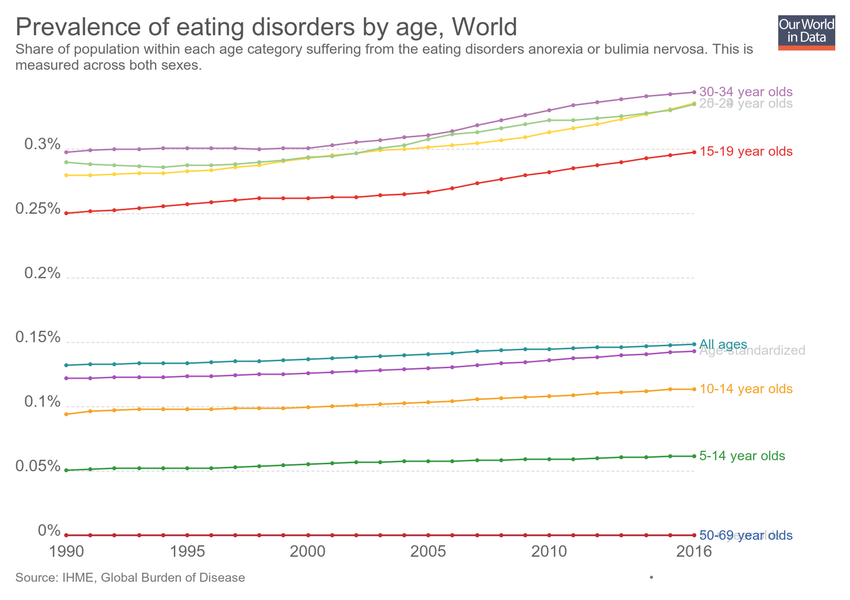
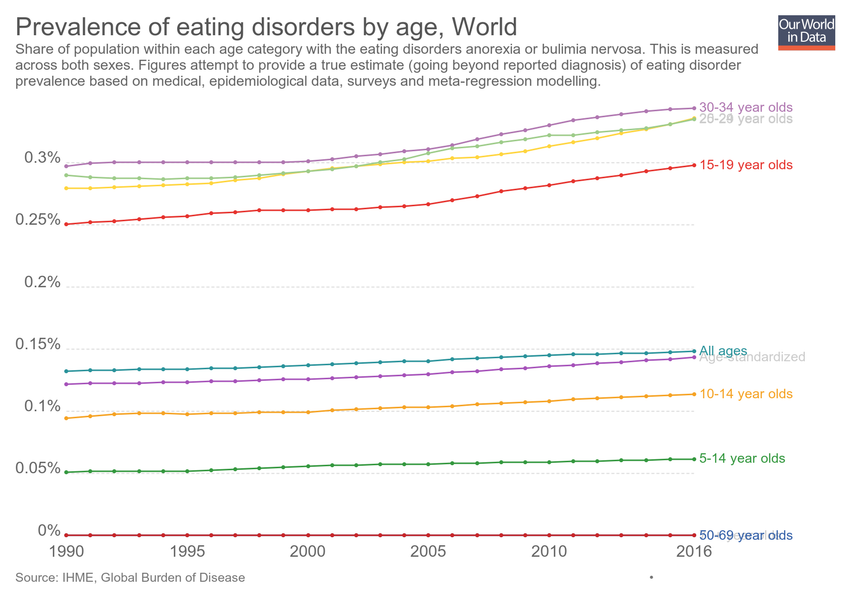
Updating chart prevalence-of-eating-disorders-by-age

diff --git a/grapher/prevalence-of-eating-disorders-by-age.html b/grapher/prevalence-of-eating-disorders-by-age.html
@@ -1,4 +1,4 @@
-<!doctype html><html><head><meta name="viewport" content="width=device-width, initial-scale=1" /><title>Prevalence of eating disorders by age - Our World in Data</title><meta name="description" content="Share of population within each age category suffering from the eating disorders anorexia or bulimia nervosa. This is measured across both sexes." /><link rel="canonical" href="https://ourworldindata.org/grapher/prevalence-of-eating-disorders-by-age" /><meta property="fb:app_id" content="1149943818390250" /><meta property="og:url" content="https://ourworldindata.org/grapher/prevalence-of-eating-disorders-by-age" /><meta property="og:title" content="Prevalence of eating disorders by age" /><meta property="og:description" content="Share of population within each age category suffering from the eating disorders anorexia or bulimia nervosa. This is measured across both sexes." /><meta property="og:image" content="https://ourworldindata.org/grapher/exports/prevalence-of-eating-disorders-by-age.png?v=2" /><meta property="og:image:width" content="850" /><meta property="og:image:height" content="600" /><meta property="og:site_name" content="Our World in Data" /><meta name="twitter:card" content="summary_large_image" /><meta name="twitter:site" content="@OurWorldInData" /><meta name="twitter:creator" content="@OurWorldInData" /><meta name="twitter:title" content="Prevalence of eating disorders by age" /><meta name="twitter:description" content="Share of population within each age category suffering from the eating disorders anorexia or bulimia nervosa. This is measured across both sexes." /><meta name="twitter:image" content="https://ourworldindata.org/grapher/exports/prevalence-of-eating-disorders-by-age.png?v=2" /><style>
+<!doctype html><html><head><meta name="viewport" content="width=device-width, initial-scale=1" /><title>Prevalence of eating disorders by age - Our World in Data</title><meta name="description" content="Share of population within each age category with the eating disorders anorexia or bulimia nervosa. This is measured across both sexes. Figures attempt to provide a true estimate (going beyond reported diagnosis) of eating disorder prevalence based on medical, epidemiological data, surveys and meta-regression modelling." /><link rel="canonical" href="https://ourworldindata.org/grapher/prevalence-of-eating-disorders-by-age" /><meta property="fb:app_id" content="1149943818390250" /><meta property="og:url" content="https://ourworldindata.org/grapher/prevalence-of-eating-disorders-by-age" /><meta property="og:title" content="Prevalence of eating disorders by age" /><meta property="og:description" content="Share of population within each age category with the eating disorders anorexia or bulimia nervosa. This is measured across both sexes. Figures attempt to provide a true estimate (going beyond reported diagnosis) of eating disorder prevalence based on medical, epidemiological data, surveys and meta-regression modelling." /><meta property="og:image" content="https://ourworldindata.org/grapher/exports/prevalence-of-eating-disorders-by-age.png?v=3" /><meta property="og:image:width" content="850" /><meta property="og:image:height" content="600" /><meta property="og:site_name" content="Our World in Data" /><meta name="twitter:card" content="summary_large_image" /><meta name="twitter:site" content="@OurWorldInData" /><meta name="twitter:creator" content="@OurWorldInData" /><meta name="twitter:title" content="Prevalence of eating disorders by age" /><meta name="twitter:description" content="Share of population within each age category with the eating disorders anorexia or bulimia nervosa. This is measured across both sexes. Figures attempt to provide a true estimate (going beyond reported diagnosis) of eating disorder prevalence based on medical, epidemiological data, surveys and meta-regression modelling." /><meta name="twitter:image" content="https://ourworldindata.org/grapher/exports/prevalence-of-eating-disorders-by-age.png?v=3" /><style>
         html, body {
             height: 100%;
             margin: 0;
@@ -20,8 +20,8 @@
         }
     </style><noscript><style>
                     figure { display: none !important; }
-                </style></noscript><link rel="stylesheet" href="https://ourworldindata.org/grapher/assets/commons.bundle.ac09ff8f098f0c7be836.css" /><link rel="preload" href="/grapher/data/variables/84758+84740+84785+84776+84767+84794+84812+84827+84821+84749.json?v=2" as="fetch" crossorigin /></head><body class="singleChart"><figure data-grapher-src="/grapher/prevalence-of-eating-disorders-by-age"></figure><noscript id="fallback"><img src="/grapher/exports/prevalence-of-eating-disorders-by-age.svg" /><p>Interactive visualization requires JavaScript</p></noscript><script src="https://cdn.polyfill.io/v2/polyfill.min.js?features=es6,fetch"></script><script src="https://ourworldindata.org/grapher/assets/commons.bundle.ac09ff8f098f0c7be836.js"></script><script src="https://ourworldindata.org/grapher/assets/charts.bundle.dcf65b68eddaba4c6a58.js"></script><script>
-        var jsonConfig = {"id":2168,"map":{"projection":"World","colorSchemeLabels":[],"colorSchemeValues":[],"colorSchemeMinValue":0,"customNumericColors":[],"customCategoryColors":{},"customCategoryLabels":{},"customHiddenCategories":{}},"tab":"chart","slug":"prevalence-of-eating-disorders-by-age","type":"LineChart","title":"Prevalence of eating disorders by age","xAxis":{"scaleType":"linear"},"yAxis":{"min":0,"scaleType":"linear"},"version":2,"subtitle":"Share of population within each age category suffering from the eating disorders anorexia or bulimia nervosa. This is measured across both sexes.","hasMapTab":false,"stackMode":"absolute","dimensions":[{"display":{"name":"20-24 year olds","unit":"%"},"property":"y","variableId":84758},{"display":{"name":"10-14 year olds","unit":"%"},"property":"y","variableId":84740},{"display":{"name":"All ages","unit":"%"},"property":"y","variableId":84785},{"display":{"name":"30-34 year olds","unit":"%"},"property":"y","variableId":84776},{"display":{"name":"25-29 year olds","unit":"%"},"property":"y","variableId":84767},{"display":{"name":"5-14 year olds","unit":"%"},"property":"y","variableId":84794},{"display":{"name":"50-69 year olds","unit":"%"},"property":"y","variableId":84812},{"display":{"name":"Age-standardized","unit":"%"},"property":"y","variableId":84827},{"display":{"name":"70+ year olds","unit":"%"},"property":"y","variableId":84821},{"display":{"name":"15-19 year olds","unit":"%"},"property":"y","variableId":84749}],"sourceDesc":"IHME, Global Burden of Disease","hasChartTab":true,"isPublished":true,"selectedData":[{"index":0,"entityId":355},{"index":1,"entityId":355},{"index":2,"entityId":355},{"index":3,"entityId":355},{"index":4,"entityId":355},{"index":5,"entityId":355},{"index":6,"entityId":355},{"index":7,"entityId":355},{"index":8,"entityId":355},{"index":9,"entityId":355}],"addCountryMode":"change-country"};
+                </style></noscript><link rel="stylesheet" href="https://ourworldindata.org/grapher/assets/commons.bundle.ac09ff8f098f0c7be836.css" /><link rel="preload" href="/grapher/data/variables/84758+84740+84785+84776+84767+84794+84812+84827+84821+84749.json?v=3" as="fetch" crossorigin /></head><body class="singleChart"><figure data-grapher-src="/grapher/prevalence-of-eating-disorders-by-age"></figure><noscript id="fallback"><img src="/grapher/exports/prevalence-of-eating-disorders-by-age.svg" /><p>Interactive visualization requires JavaScript</p></noscript><script src="https://cdn.polyfill.io/v2/polyfill.min.js?features=es6,fetch"></script><script src="https://ourworldindata.org/grapher/assets/commons.bundle.ac09ff8f098f0c7be836.js"></script><script src="https://ourworldindata.org/grapher/assets/charts.bundle.dcf65b68eddaba4c6a58.js"></script><script>
+        var jsonConfig = {"id":2168,"map":{"projection":"World","colorSchemeLabels":[],"colorSchemeValues":[],"colorSchemeMinValue":0,"customNumericColors":[],"customCategoryColors":{},"customCategoryLabels":{},"customHiddenCategories":{}},"tab":"chart","slug":"prevalence-of-eating-disorders-by-age","type":"LineChart","title":"Prevalence of eating disorders by age","xAxis":{"scaleType":"linear"},"yAxis":{"min":0,"scaleType":"linear"},"version":3,"subtitle":"Share of population within each age category with the eating disorders anorexia or bulimia nervosa. This is measured across both sexes. Figures attempt to provide a true estimate (going beyond reported diagnosis) of eating disorder prevalence based on medical, epidemiological data, surveys and meta-regression modelling.","hasMapTab":false,"stackMode":"absolute","dimensions":[{"display":{"name":"20-24 year olds","unit":"%"},"property":"y","variableId":84758},{"display":{"name":"10-14 year olds","unit":"%"},"property":"y","variableId":84740},{"display":{"name":"All ages","unit":"%"},"property":"y","variableId":84785},{"display":{"name":"30-34 year olds","unit":"%"},"property":"y","variableId":84776},{"display":{"name":"25-29 year olds","unit":"%"},"property":"y","variableId":84767},{"display":{"name":"5-14 year olds","unit":"%"},"property":"y","variableId":84794},{"display":{"name":"50-69 year olds","unit":"%"},"property":"y","variableId":84812},{"display":{"name":"Age-standardized","unit":"%"},"property":"y","variableId":84827},{"display":{"name":"70+ year olds","unit":"%"},"property":"y","variableId":84821},{"display":{"name":"15-19 year olds","unit":"%"},"property":"y","variableId":84749}],"sourceDesc":"IHME, Global Burden of Disease","hasChartTab":true,"isPublished":true,"selectedData":[{"index":0,"entityId":355},{"index":1,"entityId":355},{"index":2,"entityId":355},{"index":3,"entityId":355},{"index":4,"entityId":355},{"index":5,"entityId":355},{"index":6,"entityId":355},{"index":7,"entityId":355},{"index":8,"entityId":355},{"index":9,"entityId":355}],"addCountryMode":"change-country"};
         var figure = document.getElementsByTagName("figure")[0];
         try {
             window.App = {};

diff --git a/grapher/prevalence-of-eating-disorders-in-males-vs-females.html b/grapher/prevalence-of-eating-disorders-in-males-vs-females.html
@@ -1,4 +1,4 @@
-<!doctype html><html><head><meta name="viewport" content="width=device-width, initial-scale=1" /><title>Prevalence of eating disorders in males vs. females - Our World in Data</title><meta name="description" content="Share of population suffering from an eating disorder, in males versus females. This is given as the age-standardized share which assumes a constant age structure to compare between sexes, countries and with time. Data includes only eating disorders clinically defined as anorexia or bulimia nervosa." /><link rel="canonical" href="https://ourworldindata.org/grapher/prevalence-of-eating-disorders-in-males-vs-females" /><meta property="fb:app_id" content="1149943818390250" /><meta property="og:url" content="https://ourworldindata.org/grapher/prevalence-of-eating-disorders-in-males-vs-females" /><meta property="og:title" content="Prevalence of eating disorders in males vs. females" /><meta property="og:description" content="Share of population suffering from an eating disorder, in males versus females. This is given as the age-standardized share which assumes a constant age structure to compare between sexes, countries and with time. Data includes only eating disorders clinically defined as anorexia or bulimia nervosa." /><meta property="og:image" content="https://ourworldindata.org/grapher/exports/prevalence-of-eating-disorders-in-males-vs-females.png?v=1" /><meta property="og:image:width" content="850" /><meta property="og:image:height" content="600" /><meta property="og:site_name" content="Our World in Data" /><meta name="twitter:card" content="summary_large_image" /><meta name="twitter:site" content="@OurWorldInData" /><meta name="twitter:creator" content="@OurWorldInData" /><meta name="twitter:title" content="Prevalence of eating disorders in males vs. females" /><meta name="twitter:description" content="Share of population suffering from an eating disorder, in males versus females. This is given as the age-standardized share which assumes a constant age structure to compare between sexes, countries and with time. Data includes only eating disorders clinically defined as anorexia or bulimia nervosa." /><meta name="twitter:image" content="https://ourworldindata.org/grapher/exports/prevalence-of-eating-disorders-in-males-vs-females.png?v=1" /><style>
+<!doctype html><html><head><meta name="viewport" content="width=device-width, initial-scale=1" /><title>Prevalence of eating disorders in males vs. females - Our World in Data</title><meta name="description" content="Share of population suffering from an eating disorder, in males versus females. Data includes only eating disorders clinically defined as anorexia or bulimia nervosa. Figures attempt to provide a true estimate (going beyond reported diagnosis) of eating disorder prevalence based on medical, epidemiological data, surveys and meta-regression modelling." /><link rel="canonical" href="https://ourworldindata.org/grapher/prevalence-of-eating-disorders-in-males-vs-females" /><meta property="fb:app_id" content="1149943818390250" /><meta property="og:url" content="https://ourworldindata.org/grapher/prevalence-of-eating-disorders-in-males-vs-females" /><meta property="og:title" content="Prevalence of eating disorders in males vs. females" /><meta property="og:description" content="Share of population suffering from an eating disorder, in males versus females. Data includes only eating disorders clinically defined as anorexia or bulimia nervosa. Figures attempt to provide a true estimate (going beyond reported diagnosis) of eating disorder prevalence based on medical, epidemiological data, surveys and meta-regression modelling." /><meta property="og:image" content="https://ourworldindata.org/grapher/exports/prevalence-of-eating-disorders-in-males-vs-females.png?v=2" /><meta property="og:image:width" content="850" /><meta property="og:image:height" content="600" /><meta property="og:site_name" content="Our World in Data" /><meta name="twitter:card" content="summary_large_image" /><meta name="twitter:site" content="@OurWorldInData" /><meta name="twitter:creator" content="@OurWorldInData" /><meta name="twitter:title" content="Prevalence of eating disorders in males vs. females" /><meta name="twitter:description" content="Share of population suffering from an eating disorder, in males versus females. Data includes only eating disorders clinically defined as anorexia or bulimia nervosa. Figures attempt to provide a true estimate (going beyond reported diagnosis) of eating disorder prevalence based on medical, epidemiological data, surveys and meta-regression modelling." /><meta name="twitter:image" content="https://ourworldindata.org/grapher/exports/prevalence-of-eating-disorders-in-males-vs-females.png?v=2" /><style>
         html, body {
             height: 100%;
             margin: 0;
@@ -20,8 +20,8 @@
         }
     </style><noscript><style>
                     figure { display: none !important; }
-                </style></noscript><link rel="stylesheet" href="https://ourworldindata.org/grapher/assets/commons.bundle.ac09ff8f098f0c7be836.css" /><link rel="preload" href="/grapher/data/variables/84825+84826+72+123.json?v=1" as="fetch" crossorigin /></head><body class="singleChart"><figure data-grapher-src="/grapher/prevalence-of-eating-disorders-in-males-vs-females"></figure><noscript id="fallback"><img src="/grapher/exports/prevalence-of-eating-disorders-in-males-vs-females.svg" /><p>Interactive visualization requires JavaScript</p></noscript><script src="https://cdn.polyfill.io/v2/polyfill.min.js?features=es6,fetch"></script><script src="https://ourworldindata.org/grapher/assets/commons.bundle.ac09ff8f098f0c7be836.js"></script><script src="https://ourworldindata.org/grapher/assets/charts.bundle.dcf65b68eddaba4c6a58.js"></script><script>
-        var jsonConfig = {"map":{"projection":"World","colorSchemeLabels":[],"colorSchemeValues":[],"defaultProjection":"World","colorSchemeMinValue":0,"customNumericColors":[],"customCategoryColors":{},"customCategoryLabels":{},"customHiddenCategories":{}},"tab":"chart","slug":"prevalence-of-eating-disorders-in-males-vs-females","type":"ScatterPlot","title":"Prevalence of eating disorders in males vs. females","xAxis":{"max":1,"min":0,"scaleType":"linear"},"yAxis":{"max":1,"min":0,"scaleType":"linear"},"maxTime":2016,"minTime":2016,"version":1,"subtitle":"Share of population suffering from an eating disorder, in males versus females. This is given as the age-standardized share which assumes a constant age structure to compare between sexes, countries and with time. Data includes only eating disorders clinically defined as anorexia or bulimia nervosa.","hasMapTab":false,"stackMode":"absolute","dimensions":[{"display":{"name":"Share of males","unit":"%"},"property":"y","variableId":84825},{"display":{"name":"Share of females","unit":"%"},"property":"x","variableId":84826},{"display":{},"property":"size","variableId":72},{"display":{},"property":"color","variableId":123}],"isAutoSlug":true,"sourceDesc":"IHME, Global Burden of Disease","hasChartTab":true,"isPublished":true,"selectedData":[],"addCountryMode":"add-country","comparisonLine":{},"id":2167};
+                </style></noscript><link rel="stylesheet" href="https://ourworldindata.org/grapher/assets/commons.bundle.ac09ff8f098f0c7be836.css" /><link rel="preload" href="/grapher/data/variables/84825+84826+72+123.json?v=2" as="fetch" crossorigin /></head><body class="singleChart"><figure data-grapher-src="/grapher/prevalence-of-eating-disorders-in-males-vs-females"></figure><noscript id="fallback"><img src="/grapher/exports/prevalence-of-eating-disorders-in-males-vs-females.svg" /><p>Interactive visualization requires JavaScript</p></noscript><script src="https://cdn.polyfill.io/v2/polyfill.min.js?features=es6,fetch"></script><script src="https://ourworldindata.org/grapher/assets/commons.bundle.ac09ff8f098f0c7be836.js"></script><script src="https://ourworldindata.org/grapher/assets/charts.bundle.dcf65b68eddaba4c6a58.js"></script><script>
+        var jsonConfig = {"id":2167,"map":{"projection":"World","colorSchemeLabels":[],"colorSchemeValues":[],"colorSchemeMinValue":0,"customNumericColors":[],"customCategoryColors":{},"customCategoryLabels":{},"customHiddenCategories":{}},"tab":"chart","slug":"prevalence-of-eating-disorders-in-males-vs-females","type":"ScatterPlot","title":"Prevalence of eating disorders in males vs. females","xAxis":{"max":1,"min":0,"scaleType":"linear"},"yAxis":{"max":1,"min":0,"scaleType":"linear"},"maxTime":2016,"minTime":2016,"version":2,"subtitle":"Share of population suffering from an eating disorder, in males versus females. Data includes only eating disorders clinically defined as anorexia or bulimia nervosa. Figures attempt to provide a true estimate (going beyond reported diagnosis) of eating disorder prevalence based on medical, epidemiological data, surveys and meta-regression modelling.","hasMapTab":false,"stackMode":"absolute","dimensions":[{"display":{"name":"Share of males","unit":"%"},"property":"y","variableId":84825},{"display":{"name":"Share of females","unit":"%"},"property":"x","variableId":84826},{"display":{},"property":"size","variableId":72},{"display":{},"property":"color","variableId":123}],"sourceDesc":"IHME, Global Burden of Disease","hasChartTab":true,"isPublished":true,"selectedData":[],"addCountryMode":"add-country","comparisonLine":{}};
         var figure = document.getElementsByTagName("figure")[0];
         try {
             window.App = {};

diff --git a/grapher/rate-of-internationally-observed-elections.html b/grapher/rate-of-internationally-observed-elections.html
@@ -1,4 +1,4 @@
-<!doctype html><html><head><meta name="viewport" content="width=device-width, initial-scale=1" /><title>Internationally observed elections (%) - Our World in Data</title><meta name="description" content="Percentage of internationally observed elections and whether they were criticized by international observers. Figures cover 1,754 election events in 157 independent states, excluding those with population less than 250,000." /><link rel="canonical" href="https://ourworldindata.org/grapher/rate-of-internationally-observed-elections" /><meta property="fb:app_id" content="1149943818390250" /><meta property="og:url" content="https://ourworldindata.org/grapher/rate-of-internationally-observed-elections" /><meta property="og:title" content="Internationally observed elections (%)" /><meta property="og:description" content="Percentage of internationally observed elections and whether they were criticized by international observers. Figures cover 1,754 election events in 157 independent states, excluding those with population less than 250,000." /><meta property="og:image" content="https://ourworldindata.org/grapher/exports/rate-of-internationally-observed-elections.png?v=16" /><meta property="og:image:width" content="850" /><meta property="og:image:height" content="600" /><meta property="og:site_name" content="Our World in Data" /><meta name="twitter:card" content="summary_large_image" /><meta name="twitter:site" content="@OurWorldInData" /><meta name="twitter:creator" content="@OurWorldInData" /><meta name="twitter:title" content="Internationally observed elections (%)" /><meta name="twitter:description" content="Percentage of internationally observed elections and whether they were criticized by international observers. Figures cover 1,754 election events in 157 independent states, excluding those with population less than 250,000." /><meta name="twitter:image" content="https://ourworldindata.org/grapher/exports/rate-of-internationally-observed-elections.png?v=16" /><style>
+<!doctype html><html><head><meta name="viewport" content="width=device-width, initial-scale=1" /><title>Internationally observed elections by Western monitors - Our World in Data</title><meta name="description" content="Estimates correspond to the number of international elections that were either observed and criticized by Western monitors, observed and not criticized by Western monitors, or elections that were not observed by Western monitors. Criticism refers to allegations of significant vote-fraud." /><link rel="canonical" href="https://ourworldindata.org/grapher/rate-of-internationally-observed-elections" /><meta property="fb:app_id" content="1149943818390250" /><meta property="og:url" content="https://ourworldindata.org/grapher/rate-of-internationally-observed-elections" /><meta property="og:title" content="Internationally observed elections by Western monitors" /><meta property="og:description" content="Estimates correspond to the number of international elections that were either observed and criticized by Western monitors, observed and not criticized by Western monitors, or elections that were not observed by Western monitors. Criticism refers to allegations of significant vote-fraud." /><meta property="og:image" content="https://ourworldindata.org/grapher/exports/rate-of-internationally-observed-elections.png?v=9" /><meta property="og:image:width" content="850" /><meta property="og:image:height" content="600" /><meta property="og:site_name" content="Our World in Data" /><meta name="twitter:card" content="summary_large_image" /><meta name="twitter:site" content="@OurWorldInData" /><meta name="twitter:creator" content="@OurWorldInData" /><meta name="twitter:title" content="Internationally observed elections by Western monitors" /><meta name="twitter:description" content="Estimates correspond to the number of international elections that were either observed and criticized by Western monitors, observed and not criticized by Western monitors, or elections that were not observed by Western monitors. Criticism refers to allegations of significant vote-fraud." /><meta name="twitter:image" content="https://ourworldindata.org/grapher/exports/rate-of-internationally-observed-elections.png?v=9" /><style>
         html, body {
             height: 100%;
             margin: 0;
@@ -20,8 +20,8 @@
         }
     </style><noscript><style>
                     figure { display: none !important; }
-                </style></noscript><link rel="stylesheet" href="https://ourworldindata.org/grapher/assets/commons.bundle.ac09ff8f098f0c7be836.css" /><link rel="preload" href="/grapher/data/variables/97378+97379.json?v=16" as="fetch" crossorigin /></head><body class="singleChart"><figure data-grapher-src="/grapher/rate-of-internationally-observed-elections"></figure><noscript id="fallback"><img src="/grapher/exports/rate-of-internationally-observed-elections.svg" /><p>Interactive visualization requires JavaScript</p></noscript><script src="https://cdn.polyfill.io/v2/polyfill.min.js?features=es6,fetch"></script><script src="https://ourworldindata.org/grapher/assets/commons.bundle.ac09ff8f098f0c7be836.js"></script><script src="https://ourworldindata.org/grapher/assets/charts.bundle.dcf65b68eddaba4c6a58.js"></script><script>
-        var jsonConfig = {"id":2589,"map":{"projection":"World","colorSchemeLabels":[],"colorSchemeValues":[],"colorSchemeMinValue":0,"customNumericColors":[],"customCategoryColors":{},"customCategoryLabels":{},"customHiddenCategories":{}},"tab":"chart","slug":"rate-of-internationally-observed-elections","type":"StackedArea","title":"Internationally observed elections (%)","xAxis":{"scaleType":"linear"},"yAxis":{"max":80,"min":0,"scaleType":"linear"},"version":16,"subtitle":"Percentage of internationally observed elections and whether they were criticized by international observers. Figures cover 1,754 election events in 157 independent states, excluding those with population less than 250,000.","hasMapTab":false,"stackMode":"absolute","dimensions":[{"display":{"name":"Percent of elections observed and criticised","unit":"%"},"property":"y","variableId":97378},{"display":{"name":"Percent of elections observed and not criticised"},"property":"y","variableId":97379}],"hasChartTab":true,"isPublished":true,"selectedData":[{"index":0,"entityId":355},{"index":1,"entityId":355}],"addCountryMode":"change-country","baseColorScheme":"Plasma","hideRelativeToggle":true,"hideTitleAnnotation":true};
+                </style></noscript><link rel="stylesheet" href="https://ourworldindata.org/grapher/assets/commons.bundle.ac09ff8f098f0c7be836.css" /><link rel="preload" href="/grapher/data/variables/97399+97400+97401.json?v=9" as="fetch" crossorigin /></head><body class="singleChart"><figure data-grapher-src="/grapher/rate-of-internationally-observed-elections"></figure><noscript id="fallback"><img src="/grapher/exports/rate-of-internationally-observed-elections.svg" /><p>Interactive visualization requires JavaScript</p></noscript><script src="https://cdn.polyfill.io/v2/polyfill.min.js?features=es6,fetch"></script><script src="https://ourworldindata.org/grapher/assets/commons.bundle.ac09ff8f098f0c7be836.js"></script><script src="https://ourworldindata.org/grapher/assets/charts.bundle.dcf65b68eddaba4c6a58.js"></script><script>
+        var jsonConfig = {"id":2598,"map":{"projection":"World","colorSchemeLabels":[],"colorSchemeValues":[],"customNumericColors":[],"customCategoryColors":{},"customCategoryLabels":{},"customHiddenCategories":{}},"tab":"chart","note":"Includes 2435 election events in 162 countries","slug":"rate-of-internationally-observed-elections","type":"StackedArea","title":"Internationally observed elections by Western monitors","xAxis":{"scaleType":"linear"},"yAxis":{"min":0,"scaleType":"linear"},"version":9,"subtitle":"Estimates correspond to the number of international elections that were either observed and criticized by Western monitors, observed and not criticized by Western monitors, or elections that were not observed by Western monitors. Criticism refers to allegations of significant vote-fraud.","hasMapTab":false,"stackMode":"relative","dimensions":[{"display":{"name":"Elections not observed","unit":"elections","shortUnit":""},"property":"y","variableId":97399},{"display":{"name":"Elections observed and criticized"},"property":"y","variableId":97400},{"display":{"name":"Elections observed and not critcized"},"property":"y","variableId":97401}],"hasChartTab":true,"isPublished":true,"selectedData":[{"index":0,"entityId":355},{"index":2,"entityId":355},{"index":1,"entityId":355}],"addCountryMode":"change-country","baseColorScheme":"owid-distinct","invertColorScheme":true,"hideTitleAnnotation":true};
         var figure = document.getElementsByTagName("figure")[0];
         try {
             window.App = {};
